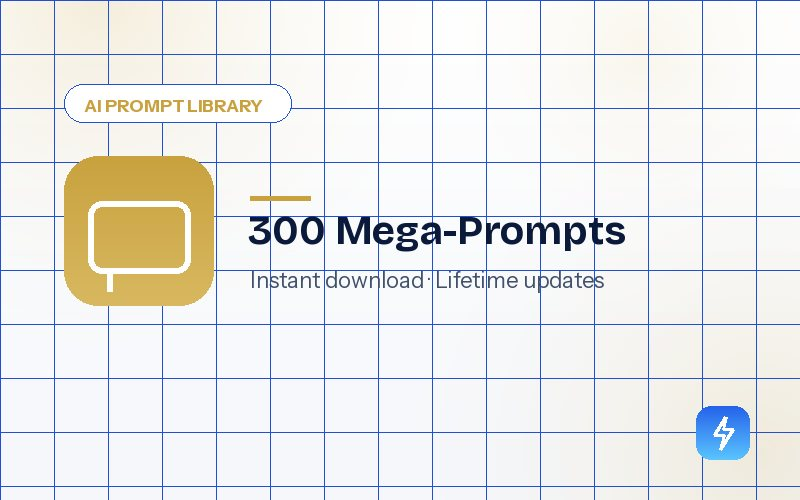
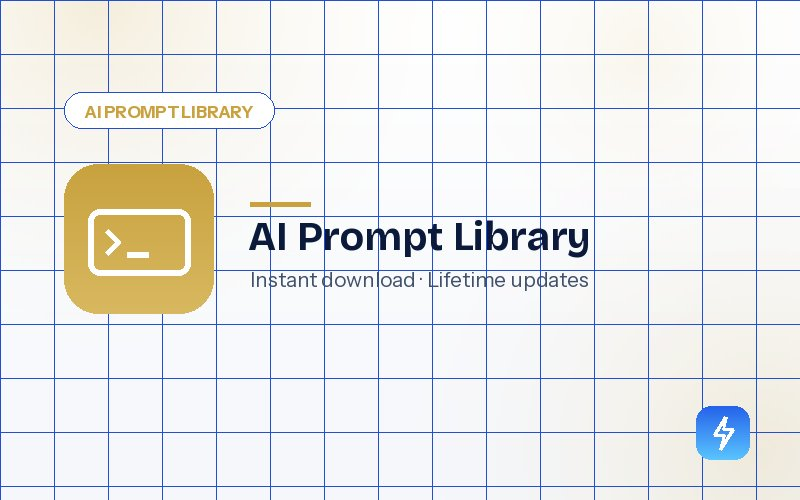
Match storefront to real Gumroad catalog + CEO photo/wording fixes (#11)
Replace placeholder products with the 7 real Gumroad listings (real titles/prices/links) + matching images; fix CEO photo framing (4:5 cover) on home & about; fix inconsistent testimonial wording.

diff --git a/index.html b/index.html
@@ -231,7 +231,7 @@
     .promo-img img{width:100%;height:100%;object-fit:cover;aspect-ratio:16/9}
     .ceo{display:grid;grid-template-columns:.85fr 1.15fr;gap:56px;align-items:center}
     .ceo-photo{position:relative}
-    .ceo-photo img{width:100%;border-radius:var(--r-2xl);box-shadow:var(--sh-lg);border:1px solid var(--border);position:relative;z-index:1}
+    .ceo-photo img{width:100%;aspect-ratio:4/5;object-fit:cover;object-position:50% 20%;max-height:600px;border-radius:var(--r-2xl);box-shadow:var(--sh-lg);border:1px solid var(--border);position:relative;z-index:1;display:block}
     .ceo-photo::after{content:'';position:absolute;inset:-18px -18px 26px 26px;border-radius:var(--r-2xl);background:var(--grad);opacity:.14;filter:blur(20px);z-index:0}
     .ceo-badge{position:absolute;left:18px;bottom:18px;z-index:2;background:rgba(255,255,255,.92);backdrop-filter:blur(10px);border:1px solid var(--border);border-radius:14px;padding:12px 16px;box-shadow:var(--sh);display:flex;align-items:center;gap:11px}
     .ceo-badge .dot{width:9px;height:9px;border-radius:50%;background:var(--emerald);box-shadow:0 0 8px var(--emerald)}
@@ -476,37 +476,33 @@
       </label>
     </div>
     <div class="prod-grid" id="prodGrid">
-      <article class="prod rv" data-cat="bundle" data-name="ultimate automation vault n8n bundle">
-        <div class="prod-media"><img src="/public/product-bundle.jpg" alt="The Automation Vault — mega bundle of n8n workflows, AI prompts and templates" loading="lazy" width="800" height="500" /><div class="prod-tagrow"><span class="ptag hot">Best Seller</span></div></div>
-        <div class="prod-body"><div class="prod-cat">Mega Bundle</div><h3>The Ultimate Automation Vault</h3><p>50+ ready-to-import n8n workflows, 200 AI prompts &amp; 12 Notion templates. Everything we use to save clients 15+ hrs/week.</p><div class="prod-meta"><span><svg viewBox="0 0 24 24" fill="none" stroke="currentColor" stroke-width="2"><polyline points="20 6 9 17 4 12"/></svg>Instant download</span><span><svg viewBox="0 0 24 24" fill="none" stroke="currentColor" stroke-width="2"><polyline points="20 6 9 17 4 12"/></svg>Lifetime updates</span></div><div class="prod-foot"><div><div class="prod-price"><s>$199</s>$99</div><div class="prod-rating">★★★★★ <span style="color:var(--muted)">(312)</span></div></div><a href="https://raphealmind.gumroad.com" target="_blank" rel="noopener noreferrer" class="btn btn-primary btn-sm">Get Vault</a></div></div>
+      <article class="prod rv" data-cat="workflow" data-name="n8n workflow bundle ai automation json">
+        <div class="prod-media"><img src="/public/product-n8n.jpg" alt="n8n Workflow Bundle" loading="lazy" width="800" height="500" /><div class="prod-tagrow"><span class="ptag hot">Best Seller</span><span class="ptag">n8n</span></div></div>
+        <div class="prod-body"><div class="prod-cat">n8n Workflows</div><h3>n8n Workflow Bundle</h3><p>5 ready-to-import n8n automation workflows with JSON templates — plug in and run.</p><div class="prod-meta"><span><svg viewBox="0 0 24 24" fill="none" stroke="currentColor" stroke-width="2"><polyline points="20 6 9 17 4 12"/></svg>5 workflows</span><span><svg viewBox="0 0 24 24" fill="none" stroke="currentColor" stroke-width="2"><polyline points="20 6 9 17 4 12"/></svg>JSON templates</span></div><div class="prod-foot"><div><div class="prod-price">$97</div><div class="prod-rating">★★★★★ <span style="color:var(--muted)">(41)</span></div></div><a href="https://raphealmind.gumroad.com/l/xhpysq" target="_blank" rel="noopener noreferrer" class="btn btn-primary btn-sm">Get Bundle</a></div></div>
       </article>
-      <article class="prod rv d1" data-cat="workflow" data-name="lead capture crm sync workflow n8n">
-        <div class="prod-media"><img src="/public/product-workflow.jpg" alt="Lead Capture to CRM Sync n8n workflow" loading="lazy" width="800" height="500" /><div class="prod-tagrow"><span class="ptag">n8n</span></div></div>
-        <div class="prod-body"><div class="prod-cat">Workflow</div><h3>Lead Capture → CRM Sync</h3><p>Auto-route every form lead into your CRM, enrich it, tag it, and trigger instant follow-up. Import in one click.</p><div class="prod-meta"><span><svg viewBox="0 0 24 24" fill="none" stroke="currentColor" stroke-width="2"><polyline points="20 6 9 17 4 12"/></svg>n8n JSON</span><span><svg viewBox="0 0 24 24" fill="none" stroke="currentColor" stroke-width="2"><polyline points="20 6 9 17 4 12"/></svg>Setup guide</span></div><div class="prod-foot"><div><div class="prod-price">$29</div><div class="prod-rating">★★★★★ <span style="color:var(--muted)">(88)</span></div></div><a href="https://raphealmind.gumroad.com" target="_blank" rel="noopener noreferrer" class="btn btn-outline btn-sm">Buy Now</a></div></div>
+      <article class="prod rv d1" data-cat="prompt" data-name="ai prompt library business chatgpt claude 150">
+        <div class="prod-media"><img src="/public/product-prompts.jpg" alt="AI Prompt Library for Business" loading="lazy" width="800" height="500" /><div class="prod-tagrow"><span class="ptag hot">Trending</span></div></div>
+        <div class="prod-body"><div class="prod-cat">AI Prompt Library</div><h3>AI Prompt Library for Business</h3><p>150+ plug-and-play prompts for ChatGPT &amp; Claude across marketing, ops &amp; sales.</p><div class="prod-meta"><span><svg viewBox="0 0 24 24" fill="none" stroke="currentColor" stroke-width="2"><polyline points="20 6 9 17 4 12"/></svg>150+ prompts</span><span><svg viewBox="0 0 24 24" fill="none" stroke="currentColor" stroke-width="2"><polyline points="20 6 9 17 4 12"/></svg>GPT &amp; Claude</span></div><div class="prod-foot"><div><div class="prod-price">$49</div><div class="prod-rating">★★★★★ <span style="color:var(--muted)">(— )</span></div></div><a href="https://raphealmind.gumroad.com/l/guatbx" target="_blank" rel="noopener noreferrer" class="btn btn-outline btn-sm">Buy Now</a></div></div>
       </article>
-      <article class="prod rv d2" data-cat="prompt" data-name="marketing ai prompt library gpt claude">
-        <div class="prod-media"><img src="/public/product-prompts.jpg" alt="300 Marketing AI Mega-Prompts library" loading="lazy" width="800" height="500" /><div class="prod-tagrow"><span class="ptag hot">Trending</span></div></div>
-        <div class="prod-body"><div class="prod-cat">AI Prompt Library</div><h3>300 Marketing Mega-Prompts</h3><p>Plug-and-play prompts for ads, emails, captions &amp; SEO — engineered for GPT &amp; Claude. Copy, paste, convert.</p><div class="prod-meta"><span><svg viewBox="0 0 24 24" fill="none" stroke="currentColor" stroke-width="2"><polyline points="20 6 9 17 4 12"/></svg>Notion + PDF</span><span><svg viewBox="0 0 24 24" fill="none" stroke="currentColor" stroke-width="2"><polyline points="20 6 9 17 4 12"/></svg>GPT &amp; Claude</span></div><div class="prod-foot"><div><div class="prod-price">$39</div><div class="prod-rating">★★★★★ <span style="color:var(--muted)">(154)</span></div></div><a href="https://raphealmind.gumroad.com" target="_blank" rel="noopener noreferrer" class="btn btn-outline btn-sm">Buy Now</a></div></div>
+      <article class="prod rv d2" data-cat="bundle" data-name="zapier starter bundle no code automation guides">
+        <div class="prod-media"><img src="/public/product-zapier.jpg" alt="Zapier Starter Bundle" loading="lazy" width="800" height="500" /><div class="prod-tagrow"><span class="ptag">Bundle</span></div></div>
+        <div class="prod-body"><div class="prod-cat">Starter Bundle</div><h3>Zapier Starter Bundle</h3><p>8 no-code automation guides to put your business on autopilot with Zapier.</p><div class="prod-meta"><span><svg viewBox="0 0 24 24" fill="none" stroke="currentColor" stroke-width="2"><polyline points="20 6 9 17 4 12"/></svg>8 guides</span><span><svg viewBox="0 0 24 24" fill="none" stroke="currentColor" stroke-width="2"><polyline points="20 6 9 17 4 12"/></svg>No-code</span></div><div class="prod-foot"><div><div class="prod-price">$67</div><div class="prod-rating">★★★★★ <span style="color:var(--muted)">(— )</span></div></div><a href="https://raphealmind.gumroad.com/l/miohbp" target="_blank" rel="noopener noreferrer" class="btn btn-outline btn-sm">Buy Now</a></div></div>
       </article>
-      <article class="prod rv" data-cat="template" data-name="content studio notion template creator dashboard">
-        <div class="prod-media"><img src="/public/product-template.jpg" alt="Creator Content Studio OS Notion template" loading="lazy" width="800" height="500" /><div class="prod-tagrow"><span class="ptag">Template</span></div></div>
-        <div class="prod-body"><div class="prod-cat">Notion Template</div><h3>Creator Content Studio OS</h3><p>The exact Notion system to plan, store &amp; schedule every promo asset and campaign in one beautiful hub.</p><div class="prod-meta"><span><svg viewBox="0 0 24 24" fill="none" stroke="currentColor" stroke-width="2"><polyline points="20 6 9 17 4 12"/></svg>Notion duplicate</span><span><svg viewBox="0 0 24 24" fill="none" stroke="currentColor" stroke-width="2"><polyline points="20 6 9 17 4 12"/></svg>Walkthrough</span></div><div class="prod-foot"><div><div class="prod-price">$19</div><div class="prod-rating">★★★★☆ <span style="color:var(--muted)">(67)</span></div></div><a href="https://raphealmind.gumroad.com" target="_blank" rel="noopener noreferrer" class="btn btn-outline btn-sm">Buy Now</a></div></div>
+      <article class="prod rv" data-cat="template" data-name="client proposal pack professional templates consulting agency">
+        <div class="prod-media"><img src="/public/product-proposal.jpg" alt="Client Proposal Pack" loading="lazy" width="800" height="500" /><div class="prod-tagrow"><span class="ptag">Template</span></div></div>
+        <div class="prod-body"><div class="prod-cat">Template</div><h3>Client Proposal Pack</h3><p>5 professional, ready-to-edit proposal templates for consultants &amp; agencies. Win clients faster.</p><div class="prod-meta"><span><svg viewBox="0 0 24 24" fill="none" stroke="currentColor" stroke-width="2"><polyline points="20 6 9 17 4 12"/></svg>5 templates</span><span><svg viewBox="0 0 24 24" fill="none" stroke="currentColor" stroke-width="2"><polyline points="20 6 9 17 4 12"/></svg>Editable</span></div><div class="prod-foot"><div><div class="prod-price">$47</div><div class="prod-rating">★★★★★ <span style="color:var(--muted)">(— )</span></div></div><a href="https://raphealmind.gumroad.com/l/epsded" target="_blank" rel="noopener noreferrer" class="btn btn-outline btn-sm">Buy Now</a></div></div>
       </article>
-      <article class="prod rv d1" data-cat="workflow" data-name="abandoned cart recovery ecommerce shopify workflow">
-        <div class="prod-media"><img src="/public/product-cart.jpg" alt="Abandoned Cart Rescue e-commerce workflow" loading="lazy" width="800" height="500" /><div class="prod-tagrow"><span class="ptag">n8n</span><span class="ptag">E-com</span></div></div>
-        <div class="prod-body"><div class="prod-cat">Workflow</div><h3>Abandoned Cart Rescue</h3><p>Win back lost sales with a 3-step recovery flow for Shopify &amp; Woo — emails, SMS &amp; discount triggers built in.</p><div class="prod-meta"><span><svg viewBox="0 0 24 24" fill="none" stroke="currentColor" stroke-width="2"><polyline points="20 6 9 17 4 12"/></svg>Shopify ready</span><span><svg viewBox="0 0 24 24" fill="none" stroke="currentColor" stroke-width="2"><polyline points="20 6 9 17 4 12"/></svg>SMS + Email</span></div><div class="prod-foot"><div><div class="prod-price">$34</div><div class="prod-rating">★★★★★ <span style="color:var(--muted)">(102)</span></div></div><a href="https://raphealmind.gumroad.com" target="_blank" rel="noopener noreferrer" class="btn btn-outline btn-sm">Buy Now</a></div></div>
+      <article class="prod rv d1" data-cat="prompt" data-name="ai email templates pack business client communication">
+        <div class="prod-media"><img src="/public/product-email.jpg" alt="AI Email Templates Pack" loading="lazy" width="800" height="500" /><div class="prod-tagrow"><span class="ptag">Template</span></div></div>
+        <div class="prod-body"><div class="prod-cat">Template</div><h3>AI Email Templates Pack</h3><p>25 polished business email templates for client communication that gets replies.</p><div class="prod-meta"><span><svg viewBox="0 0 24 24" fill="none" stroke="currentColor" stroke-width="2"><polyline points="20 6 9 17 4 12"/></svg>25 emails</span><span><svg viewBox="0 0 24 24" fill="none" stroke="currentColor" stroke-width="2"><polyline points="20 6 9 17 4 12"/></svg>Copy &amp; send</span></div><div class="prod-foot"><div><div class="prod-price">$37</div><div class="prod-rating">★★★★★ <span style="color:var(--muted)">(— )</span></div></div><a href="https://raphealmind.gumroad.com/l/xrpcen" target="_blank" rel="noopener noreferrer" class="btn btn-outline btn-sm">Buy Now</a></div></div>
       </article>
-      <article class="prod rv d2" data-cat="bundle" data-name="social media autopilot starter bundle creators">
-        <div class="prod-media"><img src="/public/product-social.jpg" alt="Social Autopilot Starter bundle for creators" loading="lazy" width="800" height="500" /><div class="prod-tagrow"><span class="ptag">Bundle</span></div></div>
-        <div class="prod-body"><div class="prod-cat">Starter Bundle</div><h3>Social Autopilot Starter</h3><p>10 workflows + 100 prompts to auto-schedule posts, repurpose content &amp; grow on autopilot. Perfect first kit.</p><div class="prod-meta"><span><svg viewBox="0 0 24 24" fill="none" stroke="currentColor" stroke-width="2"><polyline points="20 6 9 17 4 12"/></svg>Beginner-friendly</span><span><svg viewBox="0 0 24 24" fill="none" stroke="currentColor" stroke-width="2"><polyline points="20 6 9 17 4 12"/></svg>10 workflows</span></div><div class="prod-foot"><div><div class="prod-price"><s>$79</s>$49</div><div class="prod-rating">★★★★★ <span style="color:var(--muted)">(196)</span></div></div><a href="https://raphealmind.gumroad.com" target="_blank" rel="noopener noreferrer" class="btn btn-primary btn-sm">Get Bundle</a></div></div>
+      <article class="prod rv d2" data-cat="template" data-name="ai content calendar template social media caption prompts">
+        <div class="prod-media"><img src="/public/product-calendar.jpg" alt="AI Content Calendar Template" loading="lazy" width="800" height="500" /><div class="prod-tagrow"><span class="ptag">Template</span></div></div>
+        <div class="prod-body"><div class="prod-cat">Template</div><h3>AI Content Calendar Template</h3><p>90 days of social content planned out, with built-in AI caption prompts.</p><div class="prod-meta"><span><svg viewBox="0 0 24 24" fill="none" stroke="currentColor" stroke-width="2"><polyline points="20 6 9 17 4 12"/></svg>90 days</span><span><svg viewBox="0 0 24 24" fill="none" stroke="currentColor" stroke-width="2"><polyline points="20 6 9 17 4 12"/></svg>AI prompts</span></div><div class="prod-foot"><div><div class="prod-price">$37</div><div class="prod-rating">★★★★★ <span style="color:var(--muted)">(— )</span></div></div><a href="https://raphealmind.gumroad.com/l/uldbts" target="_blank" rel="noopener noreferrer" class="btn btn-outline btn-sm">Buy Now</a></div></div>
       </article>
-      <article class="prod rv" data-cat="workflow" data-name="ai support chatbot kit customer service gpt claude">
-        <div class="prod-media"><img src="/public/product-chatbot.jpg" alt="AI Support Chatbot Kit — customer-service automation" loading="lazy" width="800" height="500" /><div class="prod-tagrow"><span class="ptag">Bot</span><span class="ptag">n8n</span></div></div>
-        <div class="prod-body"><div class="prod-cat">Workflow</div><h3>AI Support Chatbot Kit</h3><p>Deploy a GPT/Claude support bot trained on your FAQs across web, WhatsApp &amp; Slack — with smart handoff to a human.</p><div class="prod-meta"><span><svg viewBox="0 0 24 24" fill="none" stroke="currentColor" stroke-width="2"><polyline points="20 6 9 17 4 12"/></svg>n8n + GPT/Claude</span><span><svg viewBox="0 0 24 24" fill="none" stroke="currentColor" stroke-width="2"><polyline points="20 6 9 17 4 12"/></svg>Setup guide</span></div><div class="prod-foot"><div><div class="prod-price">$44</div><div class="prod-rating">★★★★★ <span style="color:var(--muted)">(74)</span></div></div><a href="https://raphealmind.gumroad.com" target="_blank" rel="noopener noreferrer" class="btn btn-outline btn-sm">Buy Now</a></div></div>
-      </article>
-      <article class="prod rv d1" data-cat="template" data-name="kpi reporting analytics dashboard pack looker sheets notion">
-        <div class="prod-media"><img src="/public/product-report.jpg" alt="KPI Reporting Dashboards pack" loading="lazy" width="800" height="500" /><div class="prod-tagrow"><span class="ptag">Template</span></div></div>
-        <div class="prod-body"><div class="prod-cat">Reporting Pack</div><h3>KPI Reporting Dashboards</h3><p>Plug-and-play dashboards + automated weekly summaries that pull every metric into one clean view. Sheets, Looker &amp; Notion.</p><div class="prod-meta"><span><svg viewBox="0 0 24 24" fill="none" stroke="currentColor" stroke-width="2"><polyline points="20 6 9 17 4 12"/></svg>Auto-refresh</span><span><svg viewBox="0 0 24 24" fill="none" stroke="currentColor" stroke-width="2"><polyline points="20 6 9 17 4 12"/></svg>3 platforms</span></div><div class="prod-foot"><div><div class="prod-price">$24</div><div class="prod-rating">★★★★★ <span style="color:var(--muted)">(58)</span></div></div><a href="https://raphealmind.gumroad.com" target="_blank" rel="noopener noreferrer" class="btn btn-outline btn-sm">Buy Now</a></div></div>
+      <article class="prod rv" data-cat="template" data-name="automation audit template roi calculator interactive html">
+        <div class="prod-media"><img src="/public/product-audit.jpg" alt="Automation Audit Template" loading="lazy" width="800" height="500" /><div class="prod-tagrow"><span class="ptag">Template</span></div></div>
+        <div class="prod-body"><div class="prod-cat">Template · ROI Tool</div><h3>Automation Audit Template</h3><p>An interactive ROI calculator to audit and prioritize your highest-value automation wins.</p><div class="prod-meta"><span><svg viewBox="0 0 24 24" fill="none" stroke="currentColor" stroke-width="2"><polyline points="20 6 9 17 4 12"/></svg>Interactive</span><span><svg viewBox="0 0 24 24" fill="none" stroke="currentColor" stroke-width="2"><polyline points="20 6 9 17 4 12"/></svg>ROI calculator</span></div><div class="prod-foot"><div><div class="prod-price">$27</div><div class="prod-rating">★★★★★ <span style="color:var(--muted)">(— )</span></div></div><a href="https://raphealmind.gumroad.com/l/hknjpz" target="_blank" rel="noopener noreferrer" class="btn btn-outline btn-sm">Buy Now</a></div></div>
       </article>
       <div class="empty-msg" id="emptyMsg">No products match that search — try another keyword or filter.</div>
     </div>
@@ -661,7 +657,7 @@
     <div class="tm-grid">
       <div class="tm-card rv"><div class="tm-stars">★★★★★</div><blockquote>"MyFlowMind automated our entire onboarding. What used to take 3 hours per client now happens instantly. We've onboarded 4× more clients without hiring anyone."</blockquote><div class="tm-author"><div class="tm-av">JM</div><div><div class="tm-name">James M.</div><div class="tm-role">Founder, SaaS Startup</div></div></div></div>
       <div class="tm-card rv d1"><div class="tm-stars">★★★★★</div><blockquote>"The lead automation pays for itself every week. Leads go from form to booked call in under 2 minutes, with zero manual work from my team."</blockquote><div class="tm-author"><div class="tm-av">SR</div><div><div class="tm-name">Sarah R.</div><div class="tm-role">CEO, Digital Agency</div></div></div></div>
-      <div class="tm-card rv d2"><div class="tm-stars">★★★★★</div><blockquote>"I bought the Automation Vault and launched my first promo from the Studio in an afternoon. Cut my admin from 15 hours a week to under 2. Best investment I've made."</blockquote><div class="tm-author"><div class="tm-av">TK</div><div><div class="tm-name">Temi K.</div><div class="tm-role">E-Commerce Store Owner</div></div></div></div>
+      <div class="tm-card rv d2"><div class="tm-stars">★★★★★</div><blockquote>"I grabbed the n8n Workflow Bundle and the AI Prompt Library and had my first automations running in an afternoon. Cut my admin from 15 hours a week to under 2. Best investment I've made."</blockquote><div class="tm-author"><div class="tm-av">TK</div><div><div class="tm-name">Temi K.</div><div class="tm-role">E-Commerce Store Owner</div></div></div></div>
     </div>
   </div>
 </section>

diff --git a/about.html b/about.html
@@ -210,7 +210,7 @@
               src="/public/ceo-rapheal.jpg"
               alt="Rapheal John — Founder &amp; CEO of MyFlowMind"
               width="1056" height="1408"
-              style="width: 340px; max-width: 100%; border-radius: 26px; border: 1px solid var(--border); box-shadow: var(--sh-lg);"
+              style="width: 340px; max-width: 100%; aspect-ratio: 4/5; object-fit: cover; object-position: 50% 20%; border-radius: 26px; border: 1px solid var(--border); box-shadow: var(--sh-lg);"
             />
           </div>
           <div>
